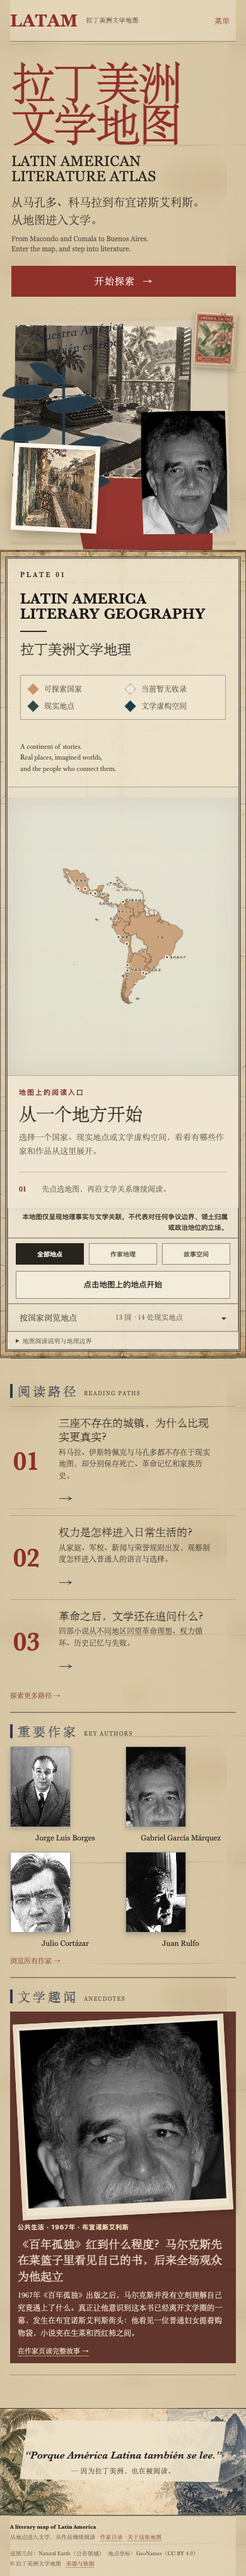
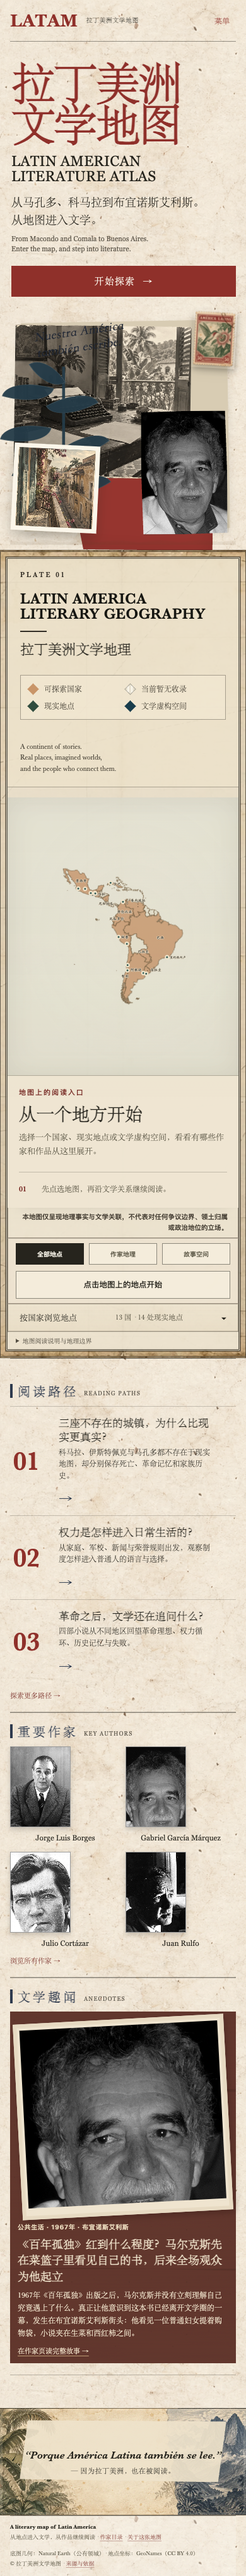
feat(wcd-11): 调整暖白档案纸底色
根据 USER 反馈将偏黄的生成纸纹调为暖白，并更新预览全站背景。

补充资产来源、跨模板纸纹断言和 22 张双视口实拍；保持 Draft PR 与正式站点边界不变。

diff --git a/previews/wcd-11/imagery/site.css b/previews/wcd-11/imagery/site.css
@@ -1208,29 +1208,29 @@ body::before {
 }
 
 /* ============================================================
-   IMAGERY V4 · 生成式羊皮纸与航海图版背景
-   位图均为本项目新生成资产；地图几何仍由交互 SVG 提供，背景不含国界。
+   IMAGERY · 项目自有纸面与航海图版背景
+   纸面于 2026-09-17 改为更浅的暖白档案纸；地图几何仍由交互 SVG 提供。
    ============================================================ */
 :root {
-  --parchment-field: url("assets/backgrounds/parchment-field-v1.webp");
+  --parchment-field: url("assets/backgrounds/archive-paper-ivory-v1.png");
   --nautical-chart: url("assets/backgrounds/nautical-chart-v1.webp");
 }
 
 body {
-  background-color: #d6c7aa;
+  background-color: #f5eee1;
   background-image:
-    linear-gradient(rgba(78,58,34,.12), rgba(78,58,34,.12)),
+    linear-gradient(rgba(250,247,240,.04), rgba(250,247,240,.04)),
     var(--parchment-field);
-  background-size: auto, 1024px 1024px;
-  background-attachment: fixed;
+  background-size: auto, 1450px auto;
+  background-attachment: scroll;
 }
 .page {
-  background-color: #eee3cc;
+  background-color: #f7f1e6;
   background-image:
-    linear-gradient(rgba(245,238,220,.48), rgba(238,226,201,.42)),
+    linear-gradient(rgba(255,252,245,.08), rgba(255,252,245,.08)),
     var(--parchment-field);
-  background-size: auto, 1024px 1024px;
-  background-blend-mode: normal, multiply;
+  background-size: auto, 1450px auto;
+  background-blend-mode: normal;
 }
 .masthead {
   background: linear-gradient(90deg, rgba(245,238,220,.34), rgba(245,238,220,.72), rgba(245,238,220,.32));
@@ -1648,13 +1648,13 @@ body {
 /* 页面与外框共享同一纸色，消除画布边缘的明显色带。 */
 html,
 body {
-  background-color: #e8dcc4;
+  background-color: #f5eee1;
   background-image:
-    linear-gradient(rgba(244, 236, 216, .20), rgba(221, 204, 173, .10)),
+    linear-gradient(rgba(255, 252, 245, .04), rgba(255, 252, 245, .04)),
     var(--parchment-field);
-  background-size: auto, 980px 980px;
+  background-size: auto, 1450px auto;
   background-position: center, center top;
-  background-blend-mode: normal, multiply;
+  background-blend-mode: normal;
   background-attachment: scroll;
 }
 body::before { display: none; }
@@ -1667,7 +1667,7 @@ body::before { display: none; }
   box-shadow: none;
 }
 .page::after { display: none; }
-.masthead { margin-top: 0; background: rgba(239, 228, 206, .46); }
+.masthead { margin-top: 0; background: rgba(250, 247, 240, .16); }
 
 /* Hero 改为文化档案拼贴：主图与阳台明信片不再指向其他真实作家。 */
 .hero {
@@ -1836,7 +1836,7 @@ body::before { display: none; }
   font: 600 12px/1.85 Baskerville, "Iowan Old Style", Georgia, serif;
   letter-spacing: .16em;
 }
-.site-footer { margin-top: 0; background: rgba(233, 220, 194, .52); }
+.site-footer { margin-top: 0; background: rgba(250, 247, 240, .32); }
 .editorial > section { background-color: transparent; background-image: none; }
 
 @media (max-width: 1120px) {
@@ -1859,7 +1859,7 @@ body::before { display: none; }
 
 @media (max-width: 620px) {
   html,
-  body { background-size: auto, 720px 720px; }
+  body { background-size: auto, 960px auto; }
   .page { --page-gutter: 14px; padding-left: var(--page-gutter); padding-right: var(--page-gutter); }
   .hero-collage { min-height: 410px; }
   .collage-photo.main { left: 0; top: 58px; width: 82%; height: 230px; }

diff --git a/previews/wcd-11/styles/master.css b/previews/wcd-11/styles/master.css
@@ -555,26 +555,25 @@ body[data-master] .site-footer { padding: 10px 0 12px; font-size: 9px; }
   body[data-master] * { scroll-behavior: auto!important; transition-duration: .01ms!important; animation-duration: .01ms!important; }
 }
 
-/* 2026-09-13 full-template audit: warmer paper, readable home modules and
-   complete author/work/search/timeline masters. */
+/* 2026-09-13 full-template audit: readable home modules and complete
+   author/work/search/timeline masters. The 2026-09-17 paper pass uses a
+   project-owned ivory scan instead of darkening parchment with blend modes. */
 body[data-master] {
-  --master-paper: #e9dec6;
-  --master-paper-dark: #d8c8aa;
-  background-color: #cdbb98;
-  background-image:
-    linear-gradient(rgba(92,65,35,.08), rgba(92,65,35,.08)),
-    url("../imagery/assets/backgrounds/parchment-field-v1.webp"),
-    url("../imagery/assets/texture/paper.svg");
-  background-size: auto, 1180px auto, 420px auto;
-  background-blend-mode: multiply, soft-light, multiply;
+  --master-paper: #f5eee1;
+  --master-paper-dark: #e8ddc9;
+  background-color: #f5eee1;
+  background-image: url("../imagery/assets/backgrounds/archive-paper-ivory-v1.png");
+  background-size: 1450px auto;
+  background-repeat: repeat;
+  background-blend-mode: normal;
 }
 body[data-master] .page {
-  background-color: rgba(232,221,197,.88);
-  background-image:
-    linear-gradient(90deg, rgba(106,75,38,.025), transparent 24%, rgba(255,248,226,.06) 58%, rgba(96,67,38,.035)),
-    url("../imagery/assets/texture/paper.svg");
-  background-size: auto, 360px auto;
-  background-blend-mode: multiply;
+  background: rgba(251, 248, 241, .12);
+}
+body[data-master] .masthead,
+body[data-master="home"] .hero,
+body[data-master="home"] .editorial > section {
+  background: transparent;
 }
 
 body[data-master="home"] .path-item { grid-template-columns: 64px 1fr 22px; padding: 15px 5px; }
@@ -662,7 +661,7 @@ body[data-master="home"] .clip-copy h3 { color: #f3e7cf; }
 .edition-collage .work-paper-red::after { content: "LITERATURA\A MEMORIA\A TERRITORIO\A HISTORIA"; white-space: pre; position: absolute; right: 18px; bottom: 22px; color: #eadbc0; font: 500 10px/1.8 Georgia,serif; letter-spacing: .13em; text-align: right; }
 
 /* Complete search */
-.master-search-hero { padding: 50px 0 28px; border-bottom: 1px solid rgba(38,36,29,.35); background-image: linear-gradient(90deg,transparent 55%,rgba(143,48,42,.06)),url("../imagery/assets/backgrounds/parchment-field-v1.webp"); background-size: auto,cover; background-blend-mode: multiply; }
+.master-search-hero { padding: 50px 0 28px; border-bottom: 1px solid rgba(38,36,29,.35); background: linear-gradient(90deg,transparent 55%,rgba(143,48,42,.035)); }
 .master-search-hero h1 { margin: 13px 0 7px; max-width: 18ch; font: 600 clamp(46px,5.7vw,78px)/1.05 var(--serif); letter-spacing: -.045em; }
 .master-search-hero > p:not(.master-kicker) { font-size: 16px; }
 .master-search-hero form { max-width: 1000px; margin-top: 28px; }

diff --git a/CHANGELOG.md b/CHANGELOG.md
@@ -2,6 +2,14 @@
 
 本文件记录拉丁美洲文学地图各版本的实际修改。格式参考 Keep a Changelog，版本号遵循语义化版本规则。
 
+## [Data 1.5.0 / Web 0.5.0 — Development, Draft Preview] - 2026-09-17
+
+### TASK-128 / WCD-11 warm-ivory paper revision
+
+- 根据 USER 对初版生成纸纹“太黄”的反馈，新生成并登记项目自有暖白档案纸底纹 `AST-035`，保留细纤维与轻微旧痕；以新资源替换候选预览母版与其余路由的活动纸纹，不覆盖原有羊皮纸资产，便于回退。
+- 去除首页刊头、Hero 和阅读三栏残留的黄褐色叠层，保持地图图版、拼贴照片和功能交互不变；搜索页使用更轻的底色处理，避免旧底纹局部重新泛黄。
+- 1440×900 与 390×844 的 11 类代表页面重拍共 22/22 PASS；浏览器回归补充非母版纸纹断言，44/44 PASS。仅修改 `previews/wcd-11/` 候选预览及本日志，正式 `site/`、Research/Curation/Web Data、Web 版本和 Public Release 边界不变；Draft PR #36 继续等待 USER 视觉确认。
+
 ## [Data 1.5.0 / Web 0.5.0 — Development, Draft Preview] - 2026-09-13
 
 ### TASK-128 / WCD-11 full-template visual audit follow-up

diff --git a/previews/wcd-11/README.md b/previews/wcd-11/README.md
@@ -50,7 +50,9 @@ map/search/timeline controls.
 
 Current scope:
 
-- parchment and archival background system;
+- project-owned warm-ivory archival paper texture (`AST-035`) across both editorial
+  masters and remaining preview routes; the earlier ochre parchment asset is
+  retained only for rollback;
 - nautical map plate with the existing interactive geography rendered above it;
 - licensed author portraits and project-owned editorial imagery;
 - larger reading-path typography and author portraits on the home page;
